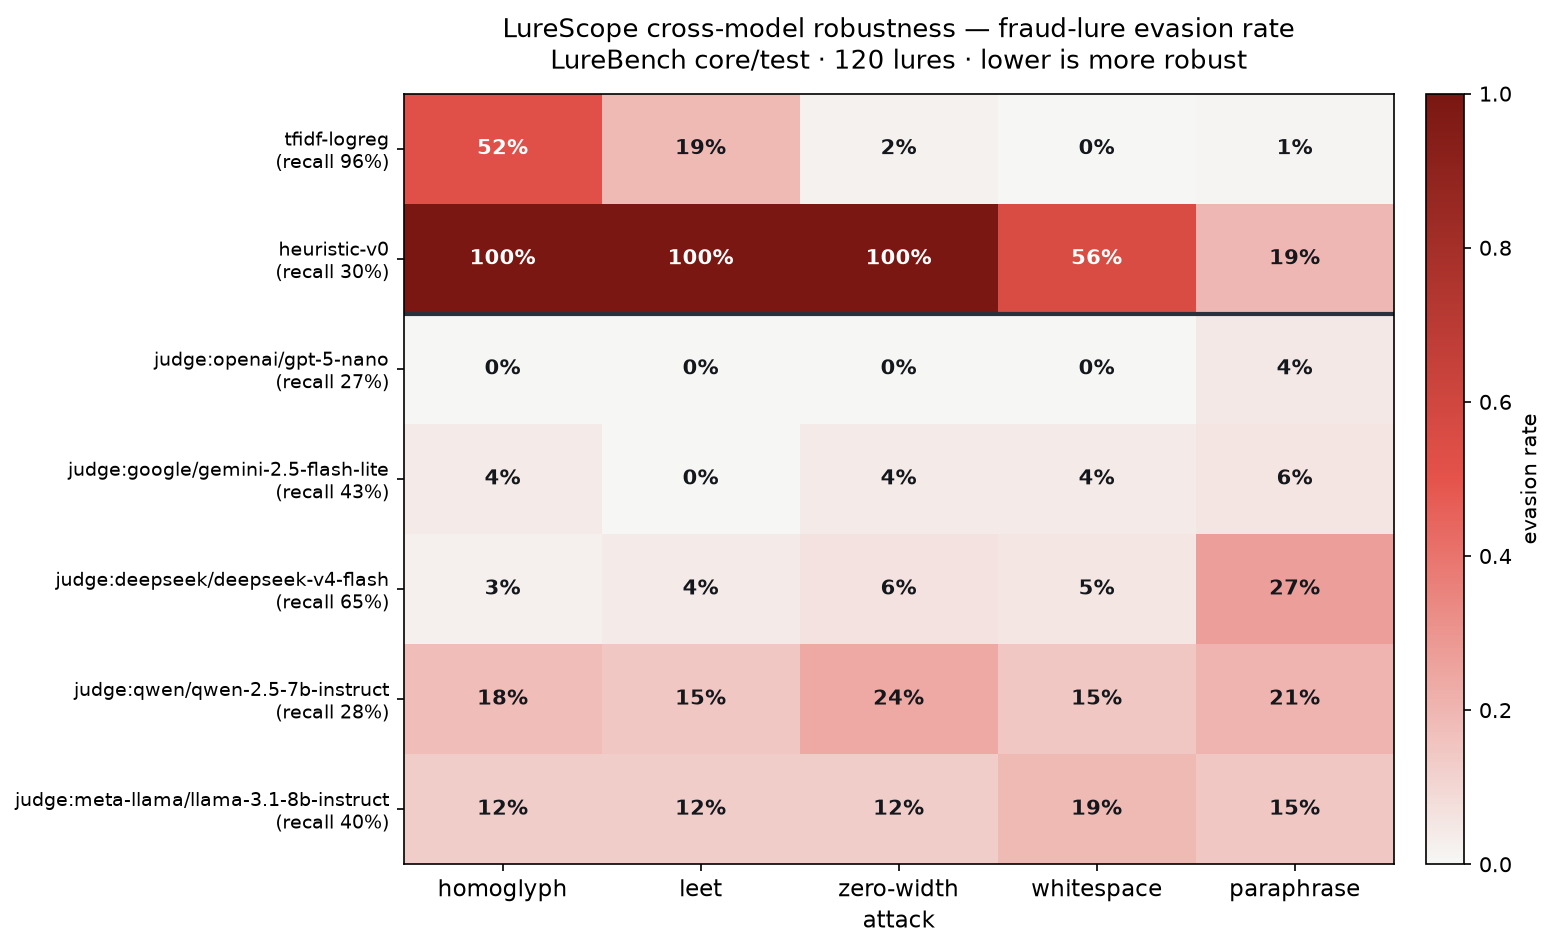
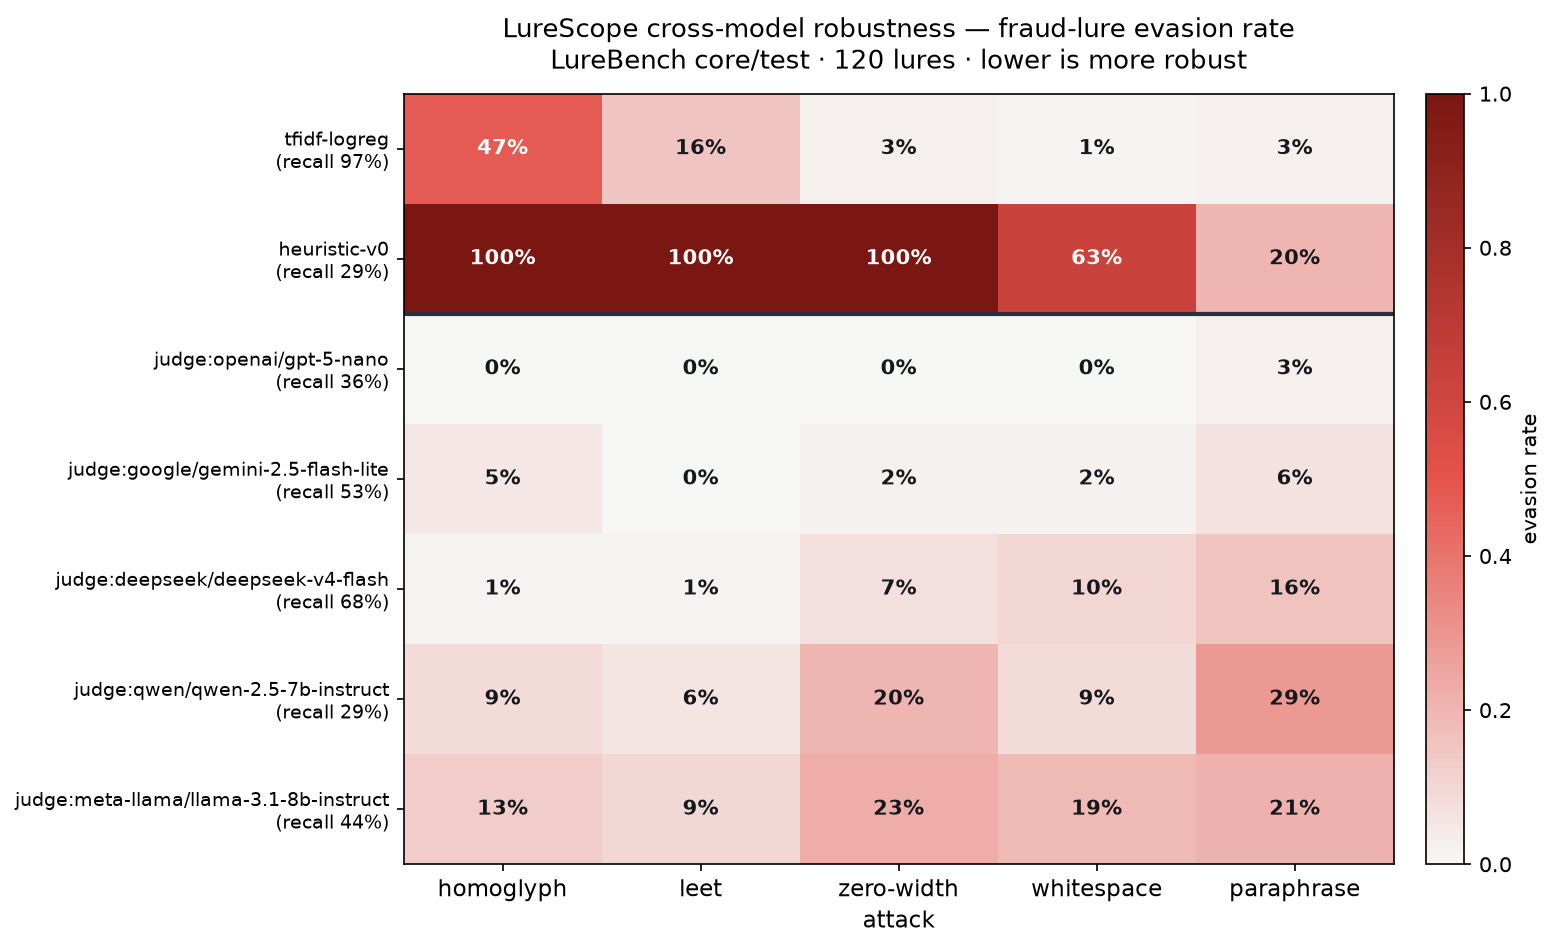
Correct the cross-model scorecard: it measured 73 records, not 120
llm_scorecard.py keyed its per-record maps by rec["id"], and LureBench shipped
roughly 500 generated records whose ids collided across generators. Colliding
records overwrote each other, so the table headed "120 fraud lures" was computed
over 73 distinct records, 25 of them counted two or three times. The maps are now
keyed by position, which cannot collide; the ids themselves are fixed upstream in
LureBench 0.8.0.

The effect was not uniform, because the collided records were mostly the harder
BEC lures. Judge clean recall was understated by 4 to 10 points (gpt-5-nano
27% -> 36%, gemini 43% -> 53%), and deepseek-v4-flash paraphrase evasion moved
from 27% to 16% while qwen-2.5-7b moved from 21% to 29%.

One claim does not survive: the best-recall judge is no longer the most
paraphrase-evadable. qwen-2.5-7b now holds that position and has among the lowest
recall. The README said otherwise and is corrected.

Also fixes how corrections are stored. The 2026-07-26 calibration correction had
been written into LLM_SCORECARD.md by hand and was silently deleted the next time
the script regenerated the file, which is precisely the failure a correction
exists to prevent. Both corrections now live in the generator and survive a rerun.

Adds a regression test that runs three distinct texts sharing one record id and
asserts none are dropped; it fails against the previous id-keyed implementation.
ruff is pinned in dev for the same reason it now is in LureBench.

28 tests pass, lint clean.

diff --git a/scripts/llm_scorecard.py b/scripts/llm_scorecard.py
@@ -124,21 +124,30 @@ def attacked_variants(lure_text: str, attacker: LLMParaphraseAttack,
 
 
 def run(lures, dets, attacker, cache, para_cache, workers, lock) -> dict:
-    """Score every (detector, lure, variant). Returns nested scores dict."""
-    # Precompute all attacked texts (fills the paraphrase cache in parallel).
-    variants_by_lure: Dict[str, Dict[str, str]] = {}
+    """Score every (detector, lure, variant). Returns nested scores dict.
 
-    def _prep(rec):
-        variants_by_lure[rec["id"]] = attacked_variants(rec["text"], attacker, para_cache, lock)
+    Keyed by position in ``lures``, never by ``rec["id"]``. Record ids are not
+    reliably unique across a shard: LureBench shipped ~500 generated records whose
+    ids collided across generators, and an earlier version of this script keyed
+    these maps by id, so colliding records silently overwrote each other. That
+    turned a stated 120-lure sample into 73 distinct records, some counted three
+    times. An index cannot collide.
+    """
+    # Precompute all attacked texts (fills the paraphrase cache in parallel).
+    variants_by_lure: Dict[int, Dict[str, str]] = {}
+
+    def _prep(item):
+        idx, rec = item
+        variants_by_lure[idx] = attacked_variants(rec["text"], attacker, para_cache, lock)
 
     with concurrent.futures.ThreadPoolExecutor(max_workers=workers) as ex:
-        list(ex.map(_prep, lures))
+        list(ex.map(_prep, list(enumerate(lures))))
 
     # Build the scoring worklist, skipping anything already cached.
     tasks = []
     for det_id in dets:
-        for rec in lures:
-            for text in variants_by_lure[rec["id"]].values():
+        for idx in range(len(lures)):
+            for text in variants_by_lure[idx].values():
                 ck = f"{det_id}\n{_hash(text)}"
                 if ck not in cache:
                     tasks.append((det_id, text, ck))
@@ -161,9 +170,9 @@ def run(lures, dets, attacker, cache, para_cache, workers, lock) -> dict:
     results = {}
     for det_id in dets:
         results[det_id] = {}
-        for rec in lures:
-            v = variants_by_lure[rec["id"]]
-            results[det_id][rec["id"]] = {
+        for idx in range(len(lures)):
+            v = variants_by_lure[idx]
+            results[det_id][idx] = {
                 variant: cache.get(f"{det_id}\n{_hash(text)}") for variant, text in v.items()
             }
     return results
@@ -174,12 +183,12 @@ def scorecard(results, dets, lures, threshold=0.5) -> dict:
     for det_id in dets:
         per = results[det_id]
         caught, recall_abstain = [], 0
-        for rec in lures:
-            cp = per[rec["id"]]["clean"]
+        for idx in range(len(lures)):
+            cp = per[idx]["clean"]
             if cp is None:
                 recall_abstain += 1
             elif cp >= threshold:
-                caught.append(rec["id"])
+                caught.append(idx)
         row = {
             "clean_recall": len(caught) / len(lures) if lures else 0.0,
             "n_caught": len(caught),
@@ -203,6 +212,46 @@ def scorecard(results, dets, lures, threshold=0.5) -> dict:
             }
         card["detectors"][det_id] = row
     return card
+
+
+def _corrections() -> list:
+    """Corrections to previously published versions of this table.
+
+    These live in the generator rather than being appended to the file by hand.
+    An earlier calibration correction was written straight into LLM_SCORECARD.md
+    and then silently deleted the next time the script regenerated it, which is
+    exactly the failure mode a correction is supposed to prevent.
+    """
+    return [
+        "",
+        "## Corrections to earlier versions of this table",
+        "",
+        "**2026-07-30 - the sample was smaller than stated.** This script keyed its "
+        "per-record maps by `rec[\"id\"]`, and LureBench shipped roughly 500 generated "
+        "records whose ids collided across generators (`gen-bec-000006` existed once "
+        "per model, with different text each time). Colliding records overwrote each "
+        "other, so the table headed *120 fraud lures* was computed over **73 distinct "
+        "records**, 25 of them counted two or three times. The maps are now keyed by "
+        "position and the ids themselves are fixed upstream.",
+        "",
+        "The effect was not uniform, because the collided records were mostly the "
+        "harder BEC lures: judge clean recall was understated by 4 to 10 points, and "
+        "`deepseek-v4-flash` paraphrase evasion moved from 27% to 16% while "
+        "`qwen-2.5-7b` moved from 21% to 29%. One claim built on the old numbers - "
+        "that the best-recall judge was also the most paraphrase-evadable - does not "
+        "survive: `qwen-2.5-7b` is now the most paraphrase-evadable and has among the "
+        "lowest recall.",
+        "",
+        "**2026-07-26 - low clean recall was mostly a threshold artifact.** An earlier "
+        "version read the judges' low clean recall as a capability trade-off, "
+        "\"immunity to character attacks bought with recall\". Measured threshold-free "
+        "over the full 2,056-record `core/test` set, the judges post an AUC of 0.89 to "
+        "0.94: they rank fraud above benign well and are simply miscalibrated at the "
+        "0.50 cutoff this table uses. Dropping `deepseek-v4-flash` to a 0.10 threshold "
+        "lifts recall from 0.750 to 0.856 at a 2.5% false-positive rate. Calibrate on "
+        "your own data rather than assuming 0.50.",
+        "",
+    ]
 
 
 def to_markdown(card, corpus_label, judges, attacker) -> str:
@@ -230,6 +279,7 @@ def to_markdown(card, corpus_label, judges, attacker) -> str:
             ev = row["attacks"][a]["evasion"]
             cells.append("—" if ev is None else f"{ev:.0%}")
         lines.append("| " + " | ".join(cells) + " |")
+    lines += _corrections()
     lines += [
         "",
         "Three things to read here. First, the token detectors (`tfidf-logreg`, "

diff --git a/tests/test_llm_scorecard.py b/tests/test_llm_scorecard.py
@@ -3,6 +3,7 @@
 from __future__ import annotations
 
 import collections
+import threading
 
 from scripts.llm_scorecard import ATTACKS, scorecard, to_markdown
 
@@ -24,16 +25,17 @@ def test_evasion_is_conditioned_on_a_clean_catch_and_abstentions_excluded():
     def cell(clean, homo):
         return {"clean": clean, "homoglyph": homo, "leet": clean, "zero-width": clean,
                 "whitespace": clean, "paraphrase": clean}
+    # Keyed by position, matching run(): record ids are not reliably unique.
     results = {"d": {
-        "l0": cell(0.9, 0.1),   # caught, homoglyph evades
-        "l1": cell(0.9, 0.9),   # caught, homoglyph held
-        "l2": cell(0.2, 0.2),   # not caught clean
-        "l3": cell(0.9, None),  # caught, abstains under homoglyph
+        0: cell(0.9, 0.1),   # caught, homoglyph evades
+        1: cell(0.9, 0.9),   # caught, homoglyph held
+        2: cell(0.2, 0.2),   # not caught clean
+        3: cell(0.9, None),  # caught, abstains under homoglyph
     }}
     card = scorecard(results, dets, lures)
     row = card["detectors"]["d"]
-    assert row["n_caught"] == 3               # l0, l1, l3
-    # homoglyph: of caught {l0,l1,l3}, l3 abstains (excluded) -> scored over {l0,l1},
+    assert row["n_caught"] == 3               # lures 0, 1, 3
+    # homoglyph: of caught {0,1,3}, lure 3 abstains (excluded) -> scored over {0,1},
     # one evades -> 50%.
     assert row["attacks"]["homoglyph"]["evasion"] == 0.5
     assert row["attacks"]["homoglyph"]["n_scored"] == 2
@@ -43,7 +45,7 @@ def test_zero_recall_detector_reports_none_not_zero():
     lures = _lures(2)
     dets = _dets("blind")
     flat = {a: 0.1 for a in ("clean", *ATTACKS)}
-    results = {"blind": {"l0": dict(flat), "l1": dict(flat)}}  # never catches anything
+    results = {"blind": {0: dict(flat), 1: dict(flat)}}  # never catches anything
     card = scorecard(results, dets, lures)
     row = card["detectors"]["blind"]
     assert row["n_caught"] == 0
@@ -55,8 +57,48 @@ def test_markdown_renders_dash_for_none_and_lists_attacks():
     lures = _lures(1)
     dets = _dets("blind")
     flat = {a: 0.1 for a in ("clean", *ATTACKS)}
-    card = scorecard({"blind": {"l0": flat}}, dets, lures)
+    card = scorecard({"blind": {0: flat}}, dets, lures)
     md = to_markdown(card, "sample", ["m1"], "attacker/x")
     assert "paraphrase" in md
     assert "—" in md            # the None cells render as an em dash, not 0%
     assert "attacker/x" in md   # caveat names the attacker
+
+
+def test_colliding_record_ids_do_not_collapse_the_sample():
+    """Regression: these maps were keyed by ``rec["id"]``, and LureBench shipped
+    ~500 generated records whose ids collided across generators. Colliding records
+    silently overwrote each other, turning a stated 120-lure sample into 73
+    distinct records with some counted three times. Keying by position fixes it."""
+    from scripts.llm_scorecard import run
+
+    # Three distinct texts deliberately sharing one id, as the shards did.
+    lures = [
+        {"id": "gen-bec-000006", "text": "verify your account now"},
+        {"id": "gen-bec-000006", "text": "confirm the wire today"},
+        {"id": "gen-bec-000006", "text": "your package could not be delivered"},
+    ]
+    seen = []
+
+    def detector(text):
+        seen.append(text)
+        return 0.9
+
+    class _NoopAttacker:
+        def apply(self, text):
+            return text + " (rewritten)"
+
+    dets = collections.OrderedDict([("d", detector)])
+    lock = threading.Lock()
+    results = run(lures, dets, _NoopAttacker(), {}, {}, workers=1, lock=lock)
+
+    # Every lure must be represented, not just the last one sharing the id.
+    assert len(results["d"]) == 3, "records with a shared id collapsed"
+    cleans = {results["d"][i]["clean"] for i in range(3)}
+    assert cleans == {0.9}
+    # Each original text must actually have been scored, not just the last one.
+    originals = {lure["text"] for lure in lures}
+    assert originals <= set(seen), "a record sharing an id was never scored"
+
+    card = scorecard(results, dets, lures)
+    assert card["n_fraud"] == 3
+    assert card["detectors"]["d"]["n_caught"] == 3

diff --git a/LLM_SCORECARD.md b/LLM_SCORECARD.md
@@ -6,32 +6,23 @@ Evasion rate = of the fraud lures a detector caught on clean text, the fraction 
 
 | Detector | Clean recall | homoglyph | leet | zero-width | whitespace | paraphrase |
 |---|---|---|---|---|---|---|
-| `tfidf-logreg` | 96% (115) | 52% | 19% | 2% | 0% | 1% |
-| `heuristic-v0` | 30% (36) | 100% | 100% | 100% | 56% | 19% |
-| `judge:openai/gpt-5-nano` | 27% (32) | 0% | 0% | 0% | 0% | 4% |
-| `judge:google/gemini-2.5-flash-lite` | 43% (52) | 4% | 0% | 4% | 4% | 6% |
-| `judge:deepseek/deepseek-v4-flash` | 65% (78) | 3% | 4% | 6% | 5% | 27% |
-| `judge:qwen/qwen-2.5-7b-instruct` | 28% (34) | 18% | 15% | 24% | 15% | 21% |
-| `judge:meta-llama/llama-3.1-8b-instruct` | 40% (48) | 12% | 12% | 12% | 19% | 15% |
+| `tfidf-logreg` | 97% (116) | 47% | 16% | 3% | 1% | 3% |
+| `heuristic-v0` | 29% (35) | 100% | 100% | 100% | 63% | 20% |
+| `judge:openai/gpt-5-nano` | 36% (43) | 0% | 0% | 0% | 0% | 3% |
+| `judge:google/gemini-2.5-flash-lite` | 53% (64) | 5% | 0% | 2% | 2% | 6% |
+| `judge:deepseek/deepseek-v4-flash` | 68% (82) | 1% | 1% | 7% | 10% | 16% |
+| `judge:qwen/qwen-2.5-7b-instruct` | 29% (35) | 9% | 6% | 20% | 9% | 29% |
+| `judge:meta-llama/llama-3.1-8b-instruct` | 44% (53) | 13% | 9% | 23% | 19% | 21% |
 
-Three things to read here. First, the token detectors (`tfidf-logreg`, `heuristic-v0`) collapse under character attacks while the stronger LLM judges are essentially immune to them — they read the meaning through the homoglyphs. Second, the judges' clean recall in this table is much lower than the TF-IDF baseline's — but see the correction below before reading that as a capability gap. Third, `paraphrase` — the only attack that changes meaning rather than spelling — is where the judges are most evadable, and the small judges are weak on every axis at once. No single detector is robust down all of them.
+## Corrections to earlier versions of this table
+
+**2026-07-30 - the sample was smaller than stated.** This script keyed its per-record maps by `rec["id"]`, and LureBench shipped roughly 500 generated records whose ids collided across generators (`gen-bec-000006` existed once per model, with different text each time). Colliding records overwrote each other, so the table headed *120 fraud lures* was computed over **73 distinct records**, 25 of them counted two or three times. The maps are now keyed by position and the ids themselves are fixed upstream.
+
+The effect was not uniform, because the collided records were mostly the harder BEC lures: judge clean recall was understated by 4 to 10 points, and `deepseek-v4-flash` paraphrase evasion moved from 27% to 16% while `qwen-2.5-7b` moved from 21% to 29%. One claim built on the old numbers - that the best-recall judge was also the most paraphrase-evadable - does not survive: `qwen-2.5-7b` is now the most paraphrase-evadable and has among the lowest recall.
+
+**2026-07-26 - low clean recall was mostly a threshold artifact.** An earlier version read the judges' low clean recall as a capability trade-off, "immunity to character attacks bought with recall". Measured threshold-free over the full 2,056-record `core/test` set, the judges post an AUC of 0.89 to 0.94: they rank fraud above benign well and are simply miscalibrated at the 0.50 cutoff this table uses. Dropping `deepseek-v4-flash` to a 0.10 threshold lifts recall from 0.750 to 0.856 at a 2.5% false-positive rate. Calibrate on your own data rather than assuming 0.50.
+
+
+Three things to read here. First, the token detectors (`tfidf-logreg`, `heuristic-v0`) collapse under character attacks while the stronger LLM judges are essentially immune to them — they read the meaning through the homoglyphs. Second, that immunity is bought with recall: the judges catch far fewer of these lures on clean text than the TF-IDF baseline does, so they miss a great deal of fraud before any attack is applied (this sample is weighted toward the subtle romance / BEC / pig-butchering typologies). Third, `paraphrase` — the only attack that changes meaning rather than spelling — is where the judges are most evadable, and the small judges are weak on every axis at once. No single detector is robust down all of them.
 
 Caveat: the paraphrase attacker (`deepseek/deepseek-v4-flash`) is itself one of the judged model families, so read that judge's `paraphrase` cell with the coupling in mind. Evasion is conditioned on a clean catch, so low-recall rows rest on fewer lures.
-
-## Correction (2026-07-26): the low clean recall is mostly a threshold artifact
-
-The first version of this page read the judges' clean-recall column as a capability trade-off — "immunity to character attacks is bought with recall." A follow-up run over the full 2,056-record `core/test` set, with threshold-free metrics, shows that reading was wrong.
-
-The judges rank fraud above benign well. What they do badly is land on the 0.50 cut this table uses:
-
-| Judge | AUC | TPR @ 0.50 | best-F1 threshold | TPR there | FPR there |
-|---|---|---|---|---|---|
-| `deepseek/deepseek-v4-flash` | 0.940 | 0.750 | 0.10 | 0.856 | 0.025 |
-| `google/gemini-2.5-flash-lite` | 0.937 | 0.726 | 0.05 | 0.870 | 0.049 |
-| `qwen/qwen-2.5-7b-instruct` | 0.889 | 0.576 | 0.20 | 0.832 | 0.143 |
-
-An AUC of 0.89–0.94 is not a detector that "misses a great deal of fraud." It is a detector whose scores are compressed toward zero, so a 0.50 cut throws away recall that a lower threshold recovers at a low false-positive cost. The remaining gap against `tfidf-logreg` is real but much smaller than this table implies, and part of what is left comes from the 120-lure sample here being deliberately weighted toward the subtle romance / BEC / pig-butchering typologies rather than phishing.
-
-What survives unchanged: the character-attack immunity, and paraphrase as the attack that actually erodes the judges. What does not: the claim that the immunity is paid for in recall. If you deploy an LLM judge, calibrate its threshold on your own data instead of assuming 0.50.
-
-Full leaderboard with threshold-free metrics: [LureBench `docs/leaderboard.md`](https://github.com/immu4989/lurebench/blob/main/docs/leaderboard.md).

diff --git a/README.md b/README.md
@@ -8,7 +8,7 @@ A deployable API and demo for AI-generated fraud-lure detection. The serving com
 
 [![Live demo](https://img.shields.io/badge/🔬_live_demo-Hugging_Face_Space-ff9d00)](https://huggingface.co/spaces/immu4989/lurescope)
 [![CI](https://github.com/immu4989/lurescope/actions/workflows/ci.yml/badge.svg)](https://github.com/immu4989/lurescope/actions/workflows/ci.yml)
-![Version](https://img.shields.io/badge/version-0.2.0-4a3aa7)
+![Version](https://img.shields.io/badge/version-0.2.1-4a3aa7)
 ![License](https://img.shields.io/badge/license-Apache_2.0-2a78d6)
 ![Python](https://img.shields.io/badge/python-3.9%2B-1baf7a)
 ![API](https://img.shields.io/badge/API-FastAPI-009485)
@@ -61,9 +61,9 @@ The scorecard above uses two token detectors. The natural next question is wheth
   <img src="docs/assets/llm_scorecard.png" width="820" alt="Cross-model evasion-rate heatmap: token detectors collapse under character attacks; LLM judges are near-immune to character attacks but have lower clean recall and are most evadable under paraphrase.">
 </p>
 
-Three findings. First, the strong LLM judges are **essentially immune to character attacks** (0–6% evasion where the keyword detector hits 100%): they read the meaning straight through the homoglyphs. Second, their clean recall here is far below tfidf's 96% — but that turned out to be mostly a **threshold artifact**, not a capability gap (see the correction below). Third, `paraphrase` is the attack that most erodes the judges, and the best-recall judge (`deepseek-v4-flash`) is the most paraphrase-evadable (27%).
+Three findings. First, the strong LLM judges are **essentially immune to character attacks** (0–5% evasion for the two strongest, where the keyword detector hits 100%): they read the meaning straight through the homoglyphs. Second, their clean recall here is below tfidf's 97% — but that turned out to be mostly a **threshold artifact**, not a capability gap (see the corrections below). Third, `paraphrase` is the attack that most erodes every judge: it is the worst column for four of the five, and the weakest judge (`qwen-2.5-7b`) is the most evadable at 29%.
 
-> **Correction (2026-07-26).** This section originally read the judges' low clean recall as "immunity paid for in recall." Re-measured over the full 2,056-record `core/test` set with threshold-free metrics, the judges post an **AUC of 0.89–0.94** — they rank fraud above benign well, they are just badly calibrated at the 0.50 cut. Dropping `deepseek-v4-flash` to a 0.10 threshold lifts recall from 0.750 to 0.856 at a 2.5% false-positive rate. The character-attack immunity and the paraphrase weakness both stand; the recall trade-off does not. Details in [LLM_SCORECARD.md](LLM_SCORECARD.md), full leaderboard in [LureBench](https://github.com/immu4989/lurebench/blob/main/docs/leaderboard.md).
+> **Corrections.** Two published claims in this section have been revised; both are recorded in full in [LLM_SCORECARD.md](LLM_SCORECARD.md). In summary: **(2026-07-30)** the table's stated 120-lure sample was really 73 distinct records, because colliding record ids in the upstream corpus caused this script to overwrite records; judge recall was understated by 4–10 points and `deepseek-v4-flash` paraphrase evasion moved from 27% to 16%. **(2026-07-26).** This section originally read the judges' low clean recall as "immunity paid for in recall." Re-measured over the full 2,056-record `core/test` set with threshold-free metrics, the judges post an **AUC of 0.89–0.94** — they rank fraud above benign well, they are just badly calibrated at the 0.50 cut. Dropping `deepseek-v4-flash` to a 0.10 threshold lifts recall from 0.750 to 0.856 at a 2.5% false-positive rate. The character-attack immunity and the paraphrase weakness both stand; the recall trade-off does not. Details in [LLM_SCORECARD.md](LLM_SCORECARD.md), full leaderboard in [LureBench](https://github.com/immu4989/lurebench/blob/main/docs/leaderboard.md).
 
 Full table and caveats in [LLM_SCORECARD.md](LLM_SCORECARD.md); reproduce with your own key and model list:
 

diff --git a/CHANGELOG.md b/CHANGELOG.md
@@ -1,5 +1,40 @@
 # Changelog
 
+## 0.2.1 — 2026-07-30
+
+### Fixed
+- **The cross-model scorecard measured a smaller sample than it reported.**
+  `scripts/llm_scorecard.py` keyed its per-record maps by `rec["id"]`, and
+  LureBench shipped roughly 500 generated records whose ids collided across
+  generators. Colliding records overwrote each other, so the table headed
+  *120 fraud lures* was computed over 73 distinct records, 25 of them counted two
+  or three times. The maps are now keyed by position, which cannot collide, and
+  the ids themselves are fixed upstream in LureBench 0.8.0.
+
+  The effect was not uniform, because the collided records were mostly the harder
+  BEC lures: judge clean recall was understated by 4 to 10 points, and
+  `deepseek-v4-flash` paraphrase evasion moved from 27% to 16% while
+  `qwen-2.5-7b` moved from 21% to 29%. `LLM_SCORECARD.md` and the README are
+  regenerated and corrected.
+
+  One claim does not survive: the best-recall judge is no longer the most
+  paraphrase-evadable. `qwen-2.5-7b` now holds that position and has among the
+  lowest recall.
+
+- **Corrections are no longer deleted by regeneration.** The 2026-07-26
+  calibration correction had been written into `LLM_SCORECARD.md` by hand and was
+  silently removed the next time the script rebuilt the file. Both corrections now
+  live in the generator and survive a rerun.
+
+- `ruff` is pinned in the `dev` extra. An unpinned linter installs a newer default
+  rule set in CI than the one used locally, which is how LureBench's CI went red
+  on a green commit.
+
+### Added
+- A regression test that runs three distinct texts sharing one record id and
+  asserts none are dropped. It fails against the previous id-keyed implementation.
+
+
 ## 0.2.0 — 2026-07-27
 
 Adds a defense, exposes the detectors teams actually deploy, and publishes two
